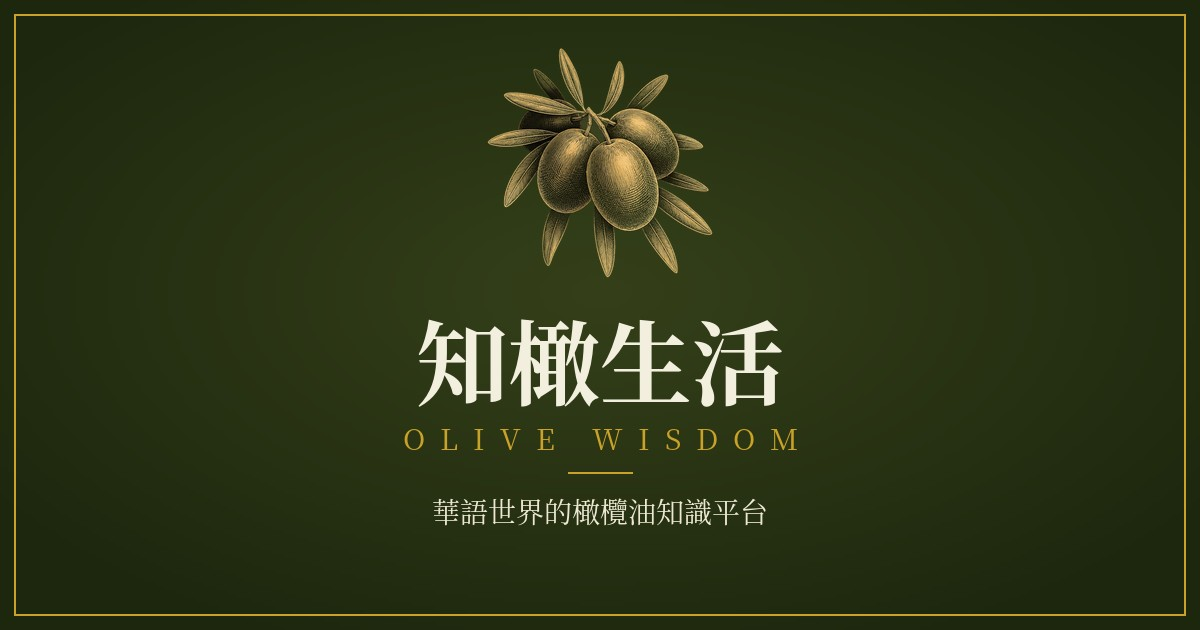
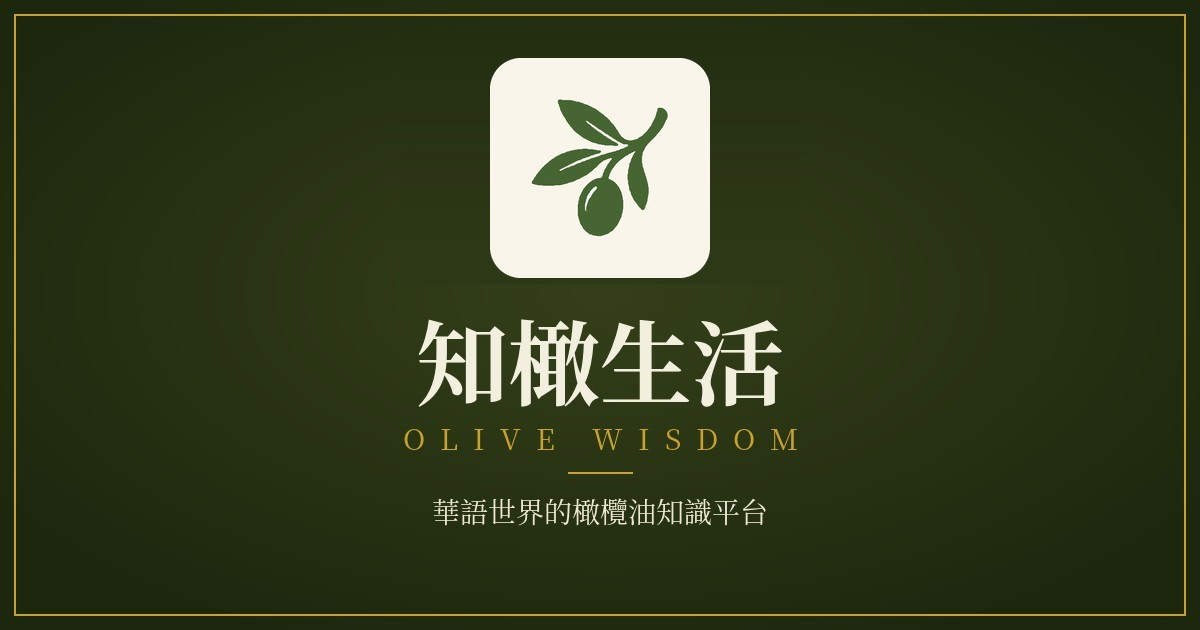
Full-site brand sync: refined B olive-branch mark (true vector)
- Header/footer: replace 7D-4 silhouette glyphs with the refined B branch mark as inline vector SVG on a cream rounded tile
- App icons (apple-touch 180, icon-192, icon-512, maskable-512) regenerated from B; maskable uses ~78% safe zone
- OG default image: same layout/text/frame, mark swapped to B on a cream rounded tile
- Favicon unchanged (already B, PR #74)

Changed region(s): [[0.4008, 0.0905, 0.6167, 0.4524]]

diff --git a/src/app/layout.tsx b/src/app/layout.tsx
@@ -125,25 +125,13 @@ export default async function RootLayout({ children }: { children: React.ReactNo
           <div className="max-w-6xl mx-auto px-5 md:px-6 h-16 flex items-center justify-between">
             {/* Logo */}
             <Link href="/" className="flex items-center gap-3 group">
-              {/* SVG olive cluster mark — one-colour silhouette glyph of the 7D-4 engraved cluster, same mark as favicon.svg / app icons */}
-              <svg width="30" height="30" viewBox="0 0 64 64" fill="none" className="flex-shrink-0" aria-hidden="true">
-<path d="M0 0 C 20.7 -30.0, 19.0 -72.0, 0 -100 C -19.0 -72.0, -20.7 -30.0, 0 0 Z" transform="translate(32 18) rotate(-4) scale(0.24 0.175)" fill="#4A5824"/>
-                <path d="M0 0 C 20.7 -30.0, 19.0 -72.0, 0 -100 C -19.0 -72.0, -20.7 -30.0, 0 0 Z" transform="translate(30 17) rotate(-48) scale(0.25 0.19)" fill="#4A5824"/>
-                <path d="M0 0 C 20.7 -30.0, 19.0 -72.0, 0 -100 C -19.0 -72.0, -20.7 -30.0, 0 0 Z" transform="translate(27 20) rotate(-88) scale(0.26 0.225)" fill="#4A5824"/>
-                <path d="M0 0 C 20.7 -30.0, 19.0 -72.0, 0 -100 C -19.0 -72.0, -20.7 -30.0, 0 0 Z" transform="translate(26 27) rotate(-120) scale(0.25 0.21)" fill="#4A5824"/>
-                <path d="M0 0 C 20.7 -30.0, 19.0 -72.0, 0 -100 C -19.0 -72.0, -20.7 -30.0, 0 0 Z" transform="translate(27 38) rotate(-168) scale(0.25 0.2)" fill="#4A5824"/>
-                <path d="M0 0 C 20.7 -30.0, 19.0 -72.0, 0 -100 C -19.0 -72.0, -20.7 -30.0, 0 0 Z" transform="translate(38 38) rotate(172) scale(0.25 0.2)" fill="#4A5824"/>
-                <path d="M0 0 C 20.7 -30.0, 19.0 -72.0, 0 -100 C -19.0 -72.0, -20.7 -30.0, 0 0 Z" transform="translate(44 34) rotate(138) scale(0.25 0.205)" fill="#4A5824"/>
-                <path d="M0 0 C 20.7 -30.0, 19.0 -72.0, 0 -100 C -19.0 -72.0, -20.7 -30.0, 0 0 Z" transform="translate(45 25) rotate(90) scale(0.24 0.18)" fill="#4A5824"/>
-                <path d="M0 0 C 20.7 -30.0, 19.0 -72.0, 0 -100 C -19.0 -72.0, -20.7 -30.0, 0 0 Z" transform="translate(34 17) rotate(44) scale(0.25 0.19)" fill="#4A5824"/>
-                <path d="M32 18 L20.5 20.0" stroke="#4A5824" strokeWidth="2.6" strokeLinecap="round"/>
-                <path d="M32 18 L42.5 21.5" stroke="#4A5824" strokeWidth="2.6" strokeLinecap="round"/>
-                <path d="M32 18 L24.5 26.0" stroke="#4A5824" strokeWidth="2.6" strokeLinecap="round"/>
-                <path d="M32 18 L36.5 28.5" stroke="#4A5824" strokeWidth="2.6" strokeLinecap="round"/>
-                <ellipse cx="20.5" cy="23.5" rx="7.6" ry="6.3" transform="rotate(-14 20.5 23.5)" fill="#4A5824" stroke="#FFFFFF" strokeWidth="3.0"/>
-                <ellipse cx="42.5" cy="26.5" rx="8.8" ry="6.9" transform="rotate(22 42.5 26.5)" fill="#4A5824" stroke="#FFFFFF" strokeWidth="3.0"/>
-                <ellipse cx="24.5" cy="34.5" rx="8.4" ry="10.3" transform="rotate(-13 24.5 34.5)" fill="#4A5824" stroke="#FFFFFF" strokeWidth="3.0"/>
-                <ellipse cx="36.5" cy="38.0" rx="9.0" ry="11.0" transform="rotate(-7 36.5 38.0)" fill="#4A5824" stroke="#FFFFFF" strokeWidth="3.0"/>
+              {/* Brand mark — refined B olive-branch mark (true vector) on a cream rounded tile */}
+              <svg width="40" height="40" viewBox="0 0 64 64" fill="none" className="flex-shrink-0" aria-hidden="true">
+                <rect x="1.5" y="1.5" width="61" height="61" rx="14" fill="#F9F5EB" stroke="#D9D2BC" strokeWidth="1.5"/>
+                <g transform="translate(-4.36 -4.09) scale(0.1417)">
+                  <path d="M174.8 116.4 L197.8 117.5 L214.3 121.1 L230.5 126.8 L249.3 136.2 L276.2 158.3 L288.0 172.5 L300.5 191.6 L307.0 196.4 L315.4 199.2 L331.9 196.4 L342.0 190.1 L352.3 179.8 L360.1 169.5 L369.4 151.0 L373.9 134.0 L381.5 133.2 L385.7 134.9 L393.1 144.0 L394.2 148.7 L393.1 153.8 L383.6 172.8 L370.2 189.9 L353.3 207.0 L343.1 225.2 L341.8 232.7 L343.0 251.5 L350.6 274.2 L355.3 295.5 L352.9 321.2 L346.1 339.2 L340.9 339.4 L325.8 320.7 L316.3 299.4 L313.9 287.3 L312.7 268.6 L316.2 247.6 L328.2 221.0 L310.3 229.9 L296.3 240.3 L281.4 257.7 L276.2 267.7 L274.3 276.1 L284.6 282.2 L290.7 288.2 L300.0 303.9 L303.7 320.9 L303.8 337.2 L300.1 354.3 L291.6 371.3 L281.8 382.5 L270.6 389.4 L258.3 393.0 L243.4 391.8 L234.7 388.7 L224.1 379.5 L216.8 368.0 L212.0 351.5 L211.9 329.9 L215.5 313.1 L223.2 298.0 L240.3 280.9 L248.5 276.8 L260.0 274.1 L266.0 258.5 L280.9 237.3 L280.2 235.5 L264.4 239.9 L230.8 268.7 L202.3 283.0 L177.1 289.9 L162.8 291.1 L130.9 290.0 L119.1 286.2 L119.3 282.0 L128.0 268.9 L147.1 247.3 L166.4 232.7 L181.0 225.4 L204.2 218.4 L223.0 216.1 L257.1 219.5 L258.7 221.5 L254.1 225.8 L212.1 240.1 L175.9 258.1 L175.7 260.8 L239.5 235.4 L294.1 219.2 L313.7 210.0 L312.3 207.5 L304.5 206.9 L292.1 200.7 L229.5 159.4 L229.7 162.2 L239.8 171.0 L271.7 193.8 L291.3 204.9 L293.6 208.6 L291.3 210.4 L285.7 210.5 L253.5 207.0 L241.5 203.4 L222.4 193.8 L202.8 177.9 L189.2 160.5 L176.6 137.5 L171.9 123.5 L171.8 118.7 Z" fill="#476533" fillRule="evenodd"/>
+                  <path d="M249.7 293.1 L250.8 294.8 L249.3 298.1 L241.0 308.2 L232.5 322.8 L227.7 343.2 L226.5 328.9 L230.3 313.8 L238.5 300.4 L244.7 294.4 Z" fill="#F9F5EB" fillRule="evenodd"/>
+                </g>
               </svg>
               <div className="flex flex-col leading-none gap-0.5">
                 <span className="text-sm font-bold text-olive-900 group-hover:text-olive-700 transition-colors tracking-tight">
@@ -215,25 +203,13 @@ export default async function RootLayout({ children }: { children: React.ReactNo
             {/* Brand */}
             <div className="md:col-span-1">
               <div className="flex items-center gap-2 mb-3">
-                {/* SVG olive cluster mark — one-colour silhouette glyph, same mark as the header logo and favicon.svg */}
-                <svg width="28" height="28" viewBox="0 0 64 64" fill="none" className="flex-shrink-0" aria-hidden="true">
-<path d="M0 0 C 20.7 -30.0, 19.0 -72.0, 0 -100 C -19.0 -72.0, -20.7 -30.0, 0 0 Z" transform="translate(32 18) rotate(-4) scale(0.24 0.175)" fill="#F3EFDF"/>
-                  <path d="M0 0 C 20.7 -30.0, 19.0 -72.0, 0 -100 C -19.0 -72.0, -20.7 -30.0, 0 0 Z" transform="translate(30 17) rotate(-48) scale(0.25 0.19)" fill="#F3EFDF"/>
-                  <path d="M0 0 C 20.7 -30.0, 19.0 -72.0, 0 -100 C -19.0 -72.0, -20.7 -30.0, 0 0 Z" transform="translate(27 20) rotate(-88) scale(0.26 0.225)" fill="#F3EFDF"/>
-                  <path d="M0 0 C 20.7 -30.0, 19.0 -72.0, 0 -100 C -19.0 -72.0, -20.7 -30.0, 0 0 Z" transform="translate(26 27) rotate(-120) scale(0.25 0.21)" fill="#F3EFDF"/>
-                  <path d="M0 0 C 20.7 -30.0, 19.0 -72.0, 0 -100 C -19.0 -72.0, -20.7 -30.0, 0 0 Z" transform="translate(27 38) rotate(-168) scale(0.25 0.2)" fill="#F3EFDF"/>
-                  <path d="M0 0 C 20.7 -30.0, 19.0 -72.0, 0 -100 C -19.0 -72.0, -20.7 -30.0, 0 0 Z" transform="translate(38 38) rotate(172) scale(0.25 0.2)" fill="#F3EFDF"/>
-                  <path d="M0 0 C 20.7 -30.0, 19.0 -72.0, 0 -100 C -19.0 -72.0, -20.7 -30.0, 0 0 Z" transform="translate(44 34) rotate(138) scale(0.25 0.205)" fill="#F3EFDF"/>
-                  <path d="M0 0 C 20.7 -30.0, 19.0 -72.0, 0 -100 C -19.0 -72.0, -20.7 -30.0, 0 0 Z" transform="translate(45 25) rotate(90) scale(0.24 0.18)" fill="#F3EFDF"/>
-                  <path d="M0 0 C 20.7 -30.0, 19.0 -72.0, 0 -100 C -19.0 -72.0, -20.7 -30.0, 0 0 Z" transform="translate(34 17) rotate(44) scale(0.25 0.19)" fill="#F3EFDF"/>
-                  <path d="M32 18 L20.5 20.0" stroke="#F3EFDF" strokeWidth="2.6" strokeLinecap="round"/>
-                  <path d="M32 18 L42.5 21.5" stroke="#F3EFDF" strokeWidth="2.6" strokeLinecap="round"/>
-                  <path d="M32 18 L24.5 26.0" stroke="#F3EFDF" strokeWidth="2.6" strokeLinecap="round"/>
-                  <path d="M32 18 L36.5 28.5" stroke="#F3EFDF" strokeWidth="2.6" strokeLinecap="round"/>
-                  <ellipse cx="20.5" cy="23.5" rx="7.6" ry="6.3" transform="rotate(-14 20.5 23.5)" fill="#F3EFDF" stroke="#343D1B" strokeWidth="3.0"/>
-                  <ellipse cx="42.5" cy="26.5" rx="8.8" ry="6.9" transform="rotate(22 42.5 26.5)" fill="#F3EFDF" stroke="#343D1B" strokeWidth="3.0"/>
-                  <ellipse cx="24.5" cy="34.5" rx="8.4" ry="10.3" transform="rotate(-13 24.5 34.5)" fill="#F3EFDF" stroke="#343D1B" strokeWidth="3.0"/>
-                  <ellipse cx="36.5" cy="38.0" rx="9.0" ry="11.0" transform="rotate(-7 36.5 38.0)" fill="#F3EFDF" stroke="#343D1B" strokeWidth="3.0"/>
+                {/* Brand mark — refined B olive-branch mark (true vector) on a cream rounded tile */}
+                <svg width="36" height="36" viewBox="0 0 64 64" fill="none" className="flex-shrink-0" aria-hidden="true">
+                  <rect x="1.5" y="1.5" width="61" height="61" rx="14" fill="#F9F5EB" stroke="#D9D2BC" strokeWidth="1.5"/>
+                  <g transform="translate(-4.36 -4.09) scale(0.1417)">
+                    <path d="M174.8 116.4 L197.8 117.5 L214.3 121.1 L230.5 126.8 L249.3 136.2 L276.2 158.3 L288.0 172.5 L300.5 191.6 L307.0 196.4 L315.4 199.2 L331.9 196.4 L342.0 190.1 L352.3 179.8 L360.1 169.5 L369.4 151.0 L373.9 134.0 L381.5 133.2 L385.7 134.9 L393.1 144.0 L394.2 148.7 L393.1 153.8 L383.6 172.8 L370.2 189.9 L353.3 207.0 L343.1 225.2 L341.8 232.7 L343.0 251.5 L350.6 274.2 L355.3 295.5 L352.9 321.2 L346.1 339.2 L340.9 339.4 L325.8 320.7 L316.3 299.4 L313.9 287.3 L312.7 268.6 L316.2 247.6 L328.2 221.0 L310.3 229.9 L296.3 240.3 L281.4 257.7 L276.2 267.7 L274.3 276.1 L284.6 282.2 L290.7 288.2 L300.0 303.9 L303.7 320.9 L303.8 337.2 L300.1 354.3 L291.6 371.3 L281.8 382.5 L270.6 389.4 L258.3 393.0 L243.4 391.8 L234.7 388.7 L224.1 379.5 L216.8 368.0 L212.0 351.5 L211.9 329.9 L215.5 313.1 L223.2 298.0 L240.3 280.9 L248.5 276.8 L260.0 274.1 L266.0 258.5 L280.9 237.3 L280.2 235.5 L264.4 239.9 L230.8 268.7 L202.3 283.0 L177.1 289.9 L162.8 291.1 L130.9 290.0 L119.1 286.2 L119.3 282.0 L128.0 268.9 L147.1 247.3 L166.4 232.7 L181.0 225.4 L204.2 218.4 L223.0 216.1 L257.1 219.5 L258.7 221.5 L254.1 225.8 L212.1 240.1 L175.9 258.1 L175.7 260.8 L239.5 235.4 L294.1 219.2 L313.7 210.0 L312.3 207.5 L304.5 206.9 L292.1 200.7 L229.5 159.4 L229.7 162.2 L239.8 171.0 L271.7 193.8 L291.3 204.9 L293.6 208.6 L291.3 210.4 L285.7 210.5 L253.5 207.0 L241.5 203.4 L222.4 193.8 L202.8 177.9 L189.2 160.5 L176.6 137.5 L171.9 123.5 L171.8 118.7 Z" fill="#476533" fillRule="evenodd"/>
+                    <path d="M249.7 293.1 L250.8 294.8 L249.3 298.1 L241.0 308.2 L232.5 322.8 L227.7 343.2 L226.5 328.9 L230.3 313.8 L238.5 300.4 L244.7 294.4 Z" fill="#F9F5EB" fillRule="evenodd"/>
+                  </g>
                 </svg>
                 <div>
                   <p className="font-bold text-white text-sm">知橄生活</p>
